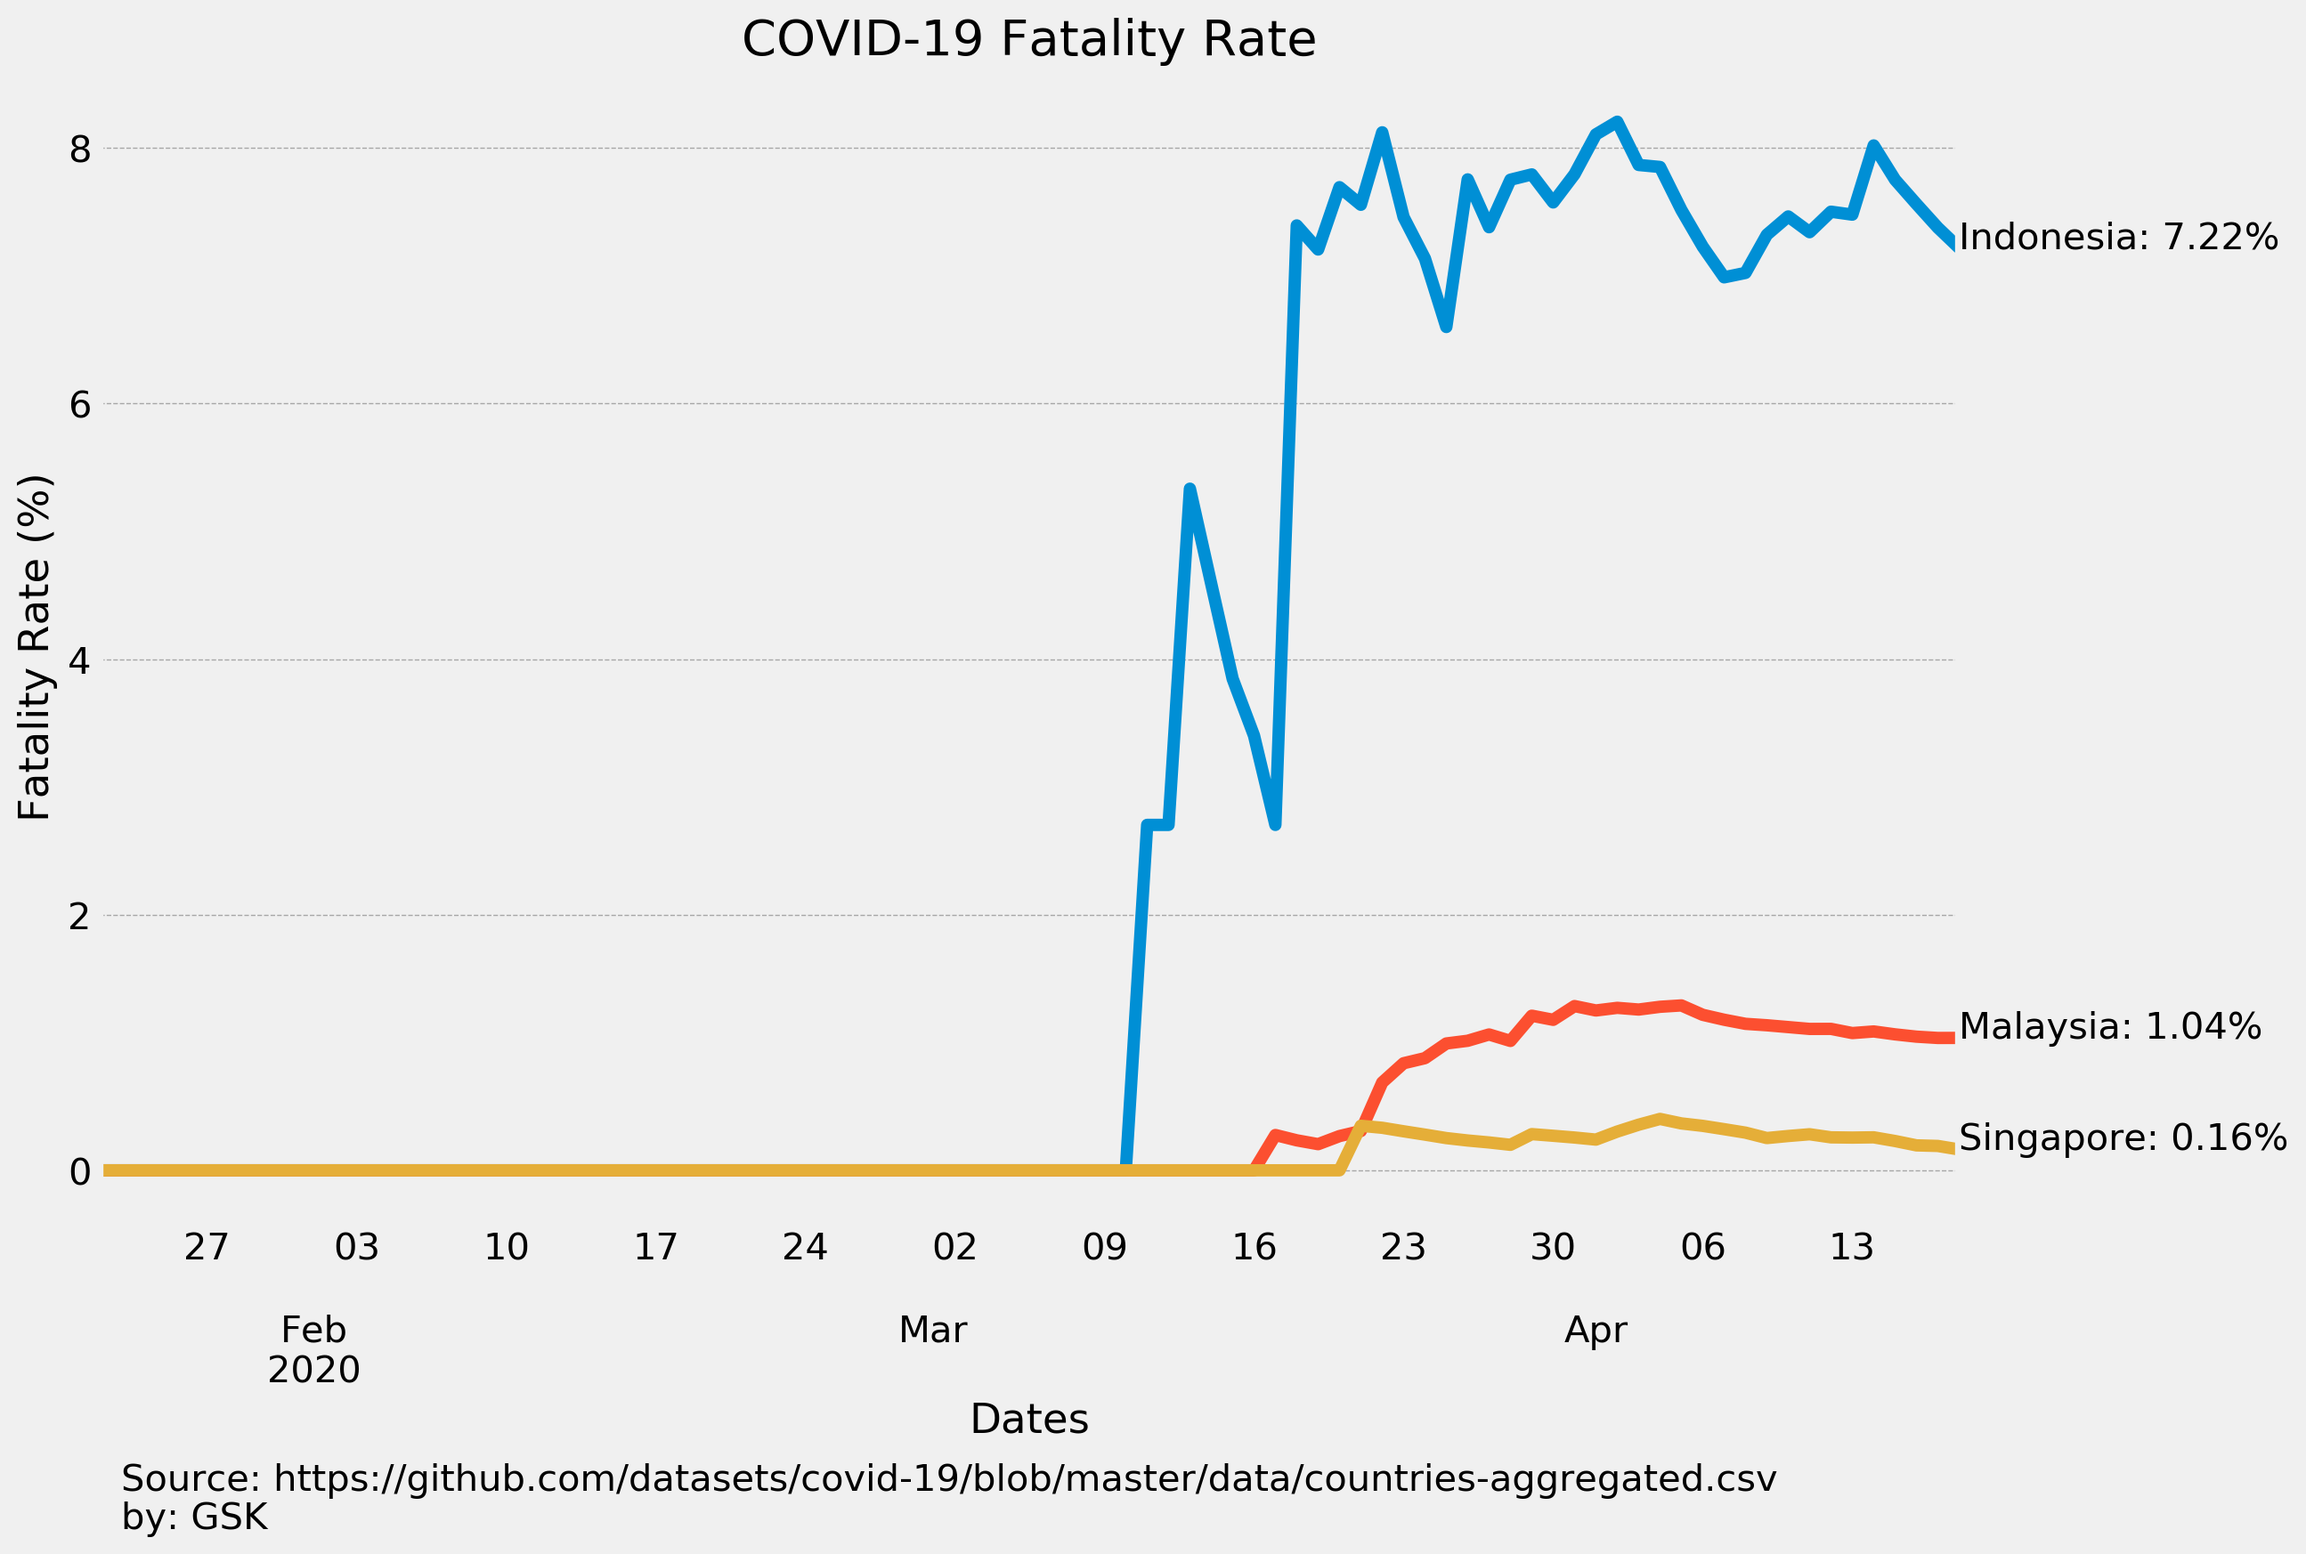
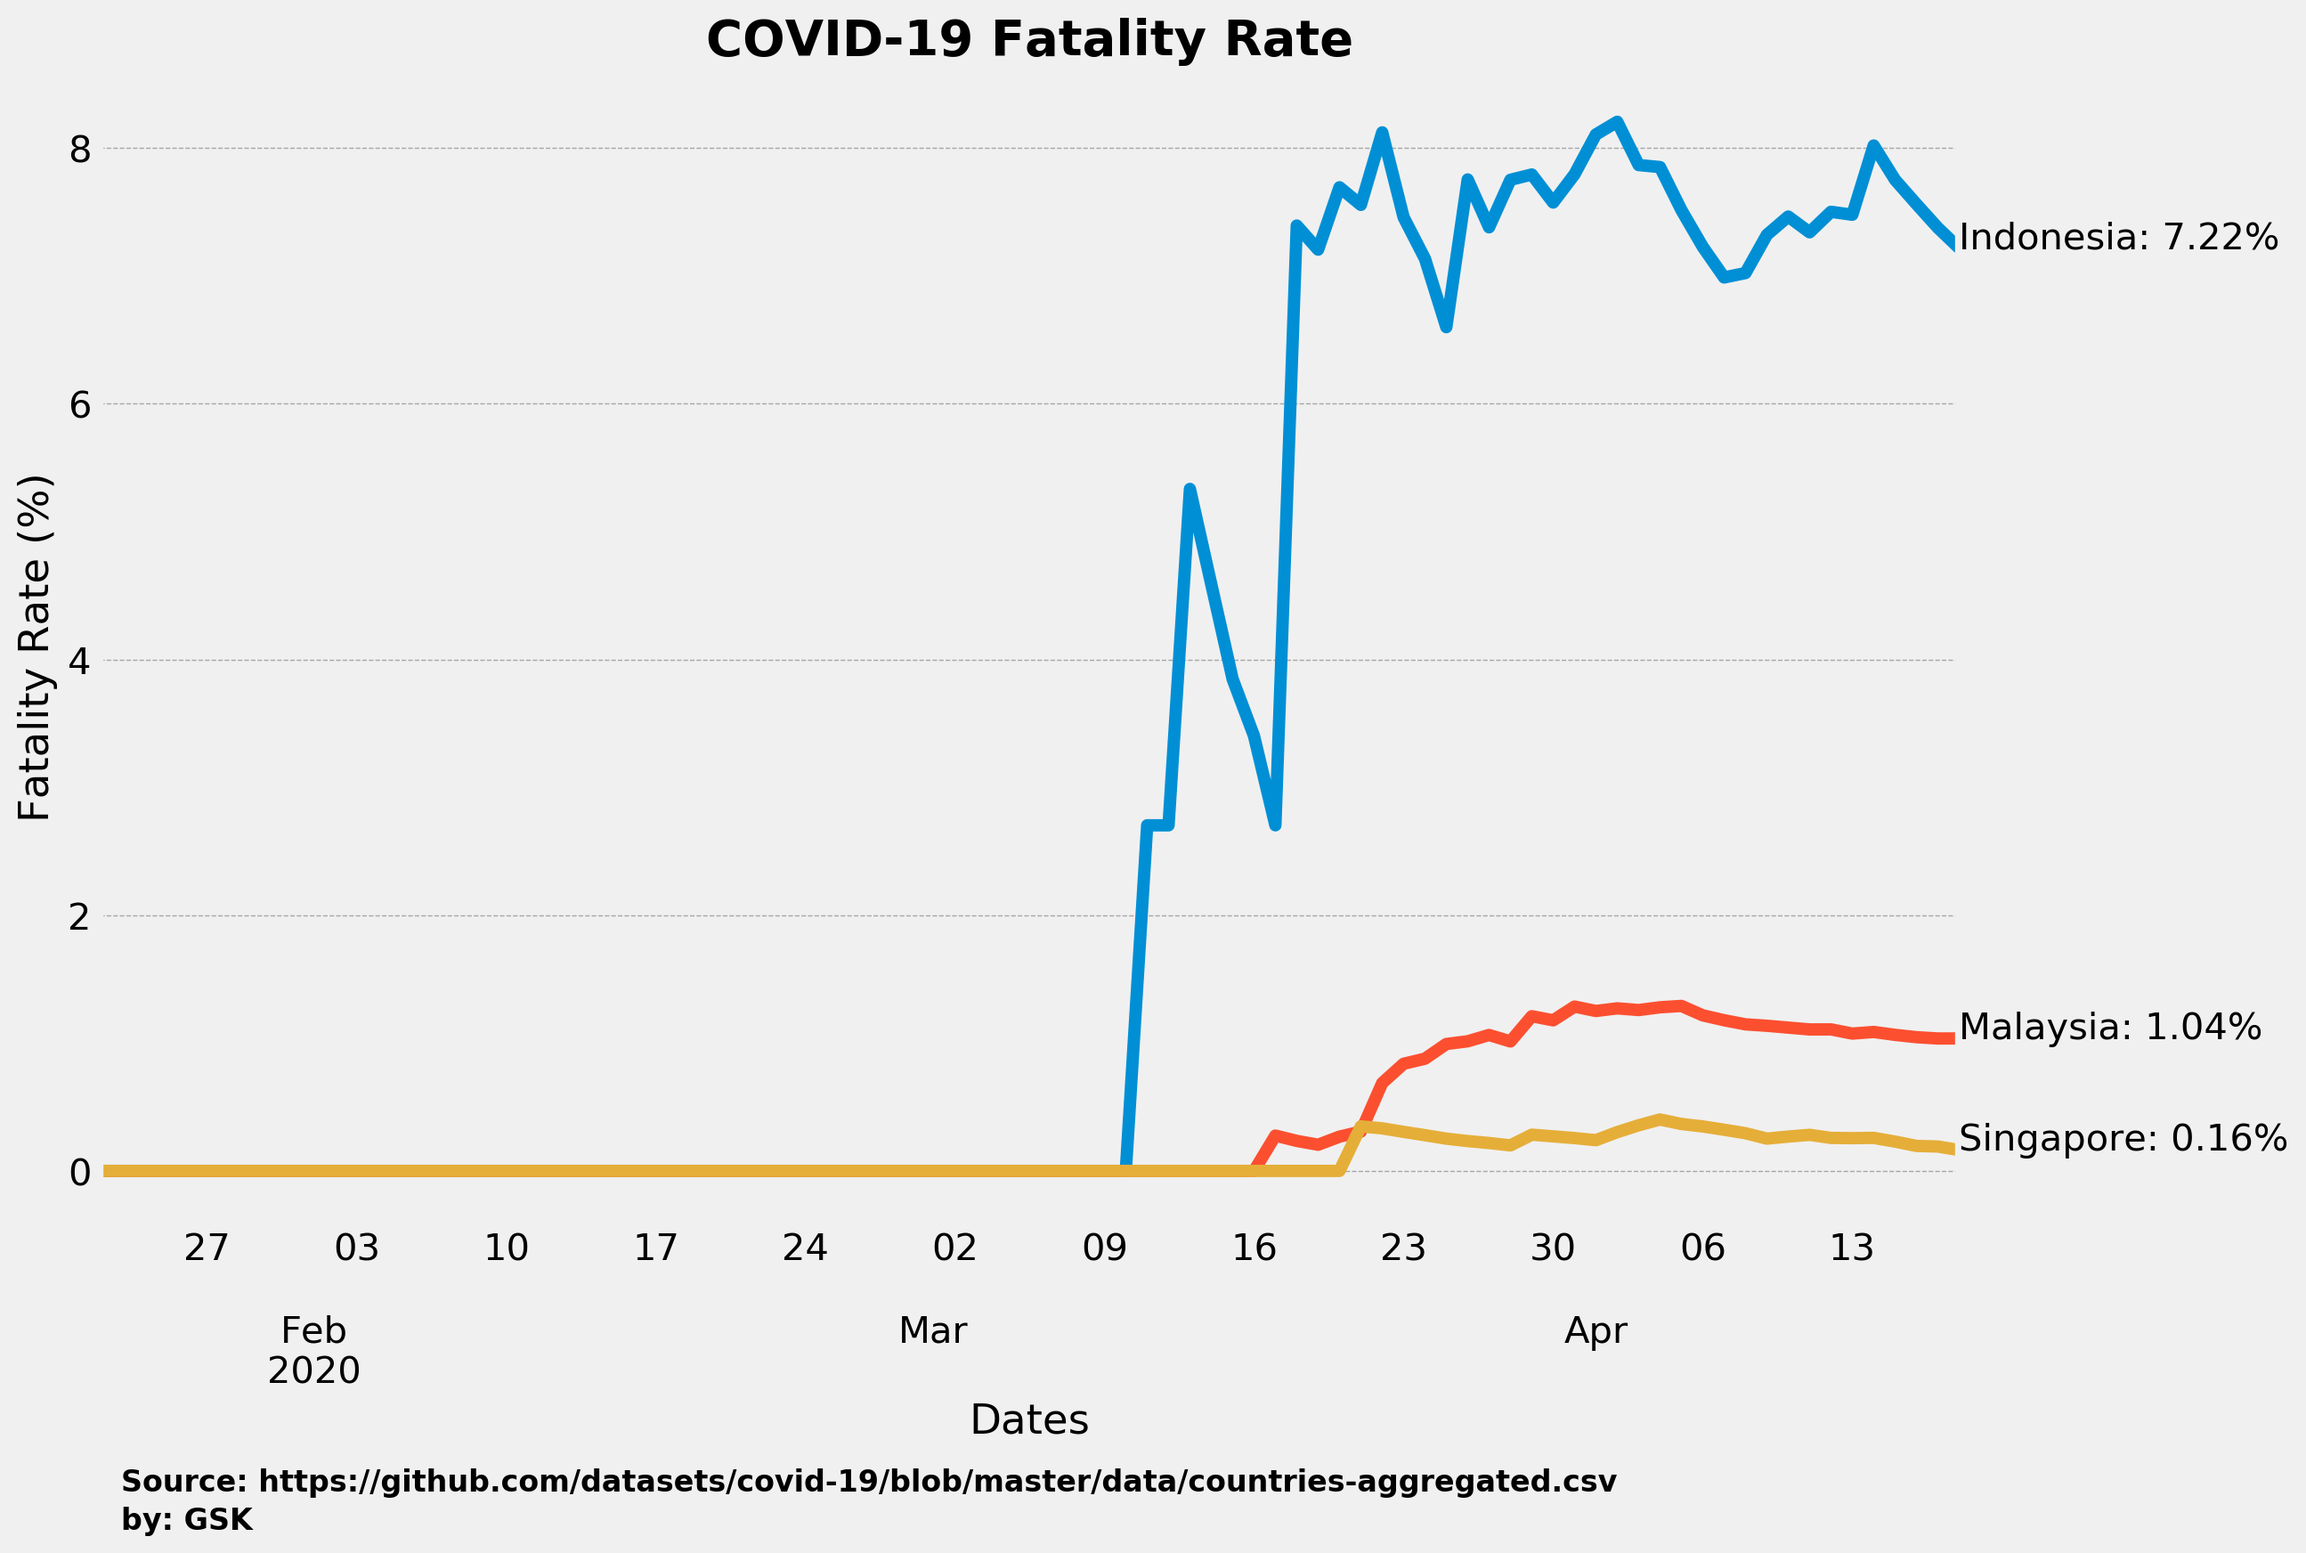
8 best

diff --git a/pandas-tut01.py b/pandas-tut01.py
@@ -20,9 +20,10 @@ frate = df.pivot(index='Date', columns='Country', values='FRates')
 crate = df.pivot(index='Date', columns='Country', values='CRates')
 
 plt.figure(num=1, dpi=200)
-plot = covid19.plot(grid=False, title="COVID-19 Infection Number", fontsize=15,
-                    figsize=(12, 8), linewidth=5, legend=False, ax=plt.gca())
+plot = covid19.plot(grid=False, fontsize=15, figsize=(12, 8),
+                    linewidth=5, legend=False, ax=plt.gca())
 plot.grid(b=True, which='major', axis='y', ls='--', lw=.5, c='k', alpha=.3)
+plot.set_title("COVID-19 Infection Number", fontweight='bold', loc='center')
 plot.set_xlabel('Dates')
 plot.set_ylabel('# of Infected')
 for country in negara:
@@ -30,15 +31,18 @@ for country in negara:
               s=country+": "+str(int(covid19[country].tail(1))),
               fontsize=15)
 plot.text(x=covid19.index[1], y=-1850, s='Source: https://github.com/datasets/\
-covid-19/blob/master/data/countries-aggregated.csv', fontsize=15)
-plot.text(x=covid19.index[1], y=-2100, s="by: GSK", fontsize=15)
+covid-19/blob/master/data/countries-aggregated.csv', fontsize=12,
+          fontweight='bold')
+plot.text(x=covid19.index[1], y=-2100, s="by: GSK", fontsize=12,
+          fontweight='bold')
 plt.savefig('Infected Number.png', bbox_inches="tight")
 
 
 plt.figure(num=2, dpi=200)
-plot = death.plot(grid=False, title="COVID-19 Total Death", fontsize=15,
-                  figsize=(12, 8), linewidth=5, legend=False, ax=plt.gca())
+plot = death.plot(grid=False, fontsize=15, figsize=(12, 8), linewidth=5,
+                  legend=False, ax=plt.gca())
 plot.grid(b=True, which='major', axis='y', ls='--', lw=.5, c='k', alpha=.3)
+plot.set_title("COVID-19 Total Death", fontweight='bold', loc='center')
 plot.set_xlabel('Dates')
 plot.set_ylabel('# of Death')
 for country in negara:
@@ -46,14 +50,17 @@ for country in negara:
               s=country+": "+str(int(death[country].tail(1))),
               fontsize=15)
 plot.text(x=covid19.index[1], y=-160, s='Source: https://github.com/datasets/\
-covid-19/blob/master/data/countries-aggregated.csv', fontsize=15)
-plot.text(x=covid19.index[1], y=-180, s="by: GSK", fontsize=15)
+covid-19/blob/master/data/countries-aggregated.csv', fontsize=12,
+          fontweight='bold')
+plot.text(x=covid19.index[1], y=-180, s="by: GSK", fontsize=12,
+          fontweight='bold')
 plt.savefig('Death Number.png', bbox_inches="tight")
 
 plt.figure(num=3, dpi=200)
-plot = frate.plot(grid=False, title="COVID-19 Fatality Rate", fontsize=15,
-                  figsize=(12, 8), linewidth=5, legend=False, ax=plt.gca())
+plot = frate.plot(grid=False, fontsize=15, figsize=(12, 8), linewidth=5,
+                  legend=False, ax=plt.gca())
 plot.grid(b=True, which='major', axis='y', ls='--', lw=.5, c='k', alpha=.3)
+plot.set_title("COVID-19 Fatality Rate", fontweight='bold', loc='center')
 plot.set_xlabel('Dates')
 plot.set_ylabel('Fatality Rate (%)')
 for country in negara:
@@ -61,6 +68,8 @@ for country in negara:
               s=country+": "+str(float("%.2f" % frate[country].tail(1)))+'%',
               fontsize=15)
 plot.text(x=covid19.index[1], y=-2.5, s='Source: https://github.com/datasets/\
-covid-19/blob/master/data/countries-aggregated.csv', fontsize=15)
-plot.text(x=covid19.index[1], y=-2.8, s="by: GSK", fontsize=15)
+covid-19/blob/master/data/countries-aggregated.csv', fontsize=12,
+          fontweight='bold')
+plot.text(x=covid19.index[1], y=-2.8, s="by: GSK", fontsize=12,
+          fontweight='bold')
 plt.savefig('Fatality Rate.png', bbox_inches="tight")
